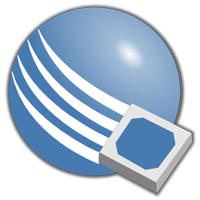
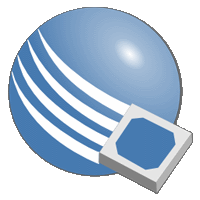
Added more in intro, contact, compressed images for faster load

diff --git a/index.html b/index.html
@@ -19,6 +19,7 @@
             <ul class="dropdown menu">
                 <li class="menu-text dark">Kaiwen Wang</li>
                 <li class="dark"><a href="#technologies">Familiar Technologies</a></li>
+                <li class="dark"><a href="#experience">Experience</a></li>
                 <li class="dark"><a href="#projects">Projects</a></li>
                 <li class="dark"><a href="#contact">Contact</a></li>
             </ul>
@@ -41,14 +42,10 @@
                         <p class="lead">Machine Learning</p>
                     </div>
                 </div>
-                <a href="#" class="button large">Resume</a>
-                <a href="#" class="button large">Linkedin</a>
-                <a href="#" class="button large">Github</a>
-                <p></p>
                 <h1>
-                <span class="icon"><a href="#"><i class="fas fa-file-alt fa-lg"></i></a></span>
-                <span class="icon"><a href="https://www.linkedin.com/in/kaiwen-wang-440187b0/"><i class="fab fa-linkedin fa-lg"></i></a></span>
-                <span class="icon"><a href="https://github.com/TheHappyDude"><i class="fab fa-github-square fa-lg"></i></a></span>
+                <span class="icon-span"><a class="icon" href="#"><i class="fas fa-file-alt fa-lg"></i></a></span>
+                <span class="icon-span"><a class="icon" href="https://www.linkedin.com/in/kaiwen-wang-440187b0/"><i class="fab fa-linkedin fa-lg"></i></a></span>
+                <span class="icon-span"><a class="icon" href="https://github.com/TheHappyDude"><i class="fab fa-github-square fa-lg"></i></a></span>
                 </h1>
             </div>
         </div>
@@ -58,7 +55,18 @@
             <div id="intro">
                 <div class="row column">
                     <h3>Hi my name is Kaiwen!</h3>
-                    <p>I'm a graduate student at Georgia Tech specializing in machine learning. </p>
+                    <p>
+                        I'm a graduate student at Georgia Tech specializing in machine learning. My undergraduate
+                        concentrations were in modeling and simulations, and systems and architecture. In addition,
+                        I was part of the Honors Program and International Plan, and received a Certificate in Finance
+                        and a language certification in Mandarin. I do a mix of full-stack web development along with
+                        high-performance data analysis and processing algorithms, with some Android development sprinkled in.
+                        My favorite challenges are taking dirty data from different sources, and cleaning and turning
+                        them into useful information. 
+                        Outside of computer science, I design parts in CAD and fabricate through machining or through
+                        3D printing. My hobbies include Nerf modding, painting, sim racing, and playing the piano and
+                        electric bass. 
+                    </p>
                 </div>
 
                 <div class="row column">
@@ -104,22 +112,45 @@
                             <li>Git</li>
                             <li>Linux</li>
                             <li>Anaconda</li>
+                            <li>Vi/Vim</li>
+                            <li>Android Studio</li>
+                            <li>Visual Studio</li>
                             <li>Autodesk Inventor</li>
                             <li>Adobe Photoshop</li>
                         </ul>
                     </div>
                     <div class="medium-4 cell">
-                        <h4>Frameworks</h4>
+                        <h4>Frameworks/Libraries</h4>
                         <ul class="bullet">
                             <li>Django</li>
                             <li>Pandas</li>
                             <li>Scikit-Learn</li>
-                            <li>NumPy</li>
+                            <li>NumPy/SciPy</li>
                             <li>Plot.ly</li>
                             <li>D3</li>
+                            <li>Bootstrap</li>
+                            <li>Zurb Foundation</li>
                             <li>MPI</li>
                             <li>Nginx</li>
                         </ul>
+                    </div>
+                </div>
+            </div>
+
+            <div id="experience">
+                <div class="spacer"></div>
+                <h3>Work Experience</h3>
+                <div class="grid-container">
+                    <div class="cell">
+                        <div class="card-info other">
+                            <div class="grid-x grid-margin-x card-info-content">
+                                <div class="medium-3 cell">
+                                    <img src="https://placehold.it/400x370&text=Pegasi B" />
+                                </div>
+                                <div class="medium-9 cell">
+                                </div>
+                            </div>
+                        </div>
                     </div>
                 </div>
             </div>
@@ -427,6 +458,7 @@
             <div id="contact">
                 <div class="spacer"></div>
                 <h3>Contact</h3>
+                <p>Email: <a href="mailto:kwang329@gatech.edu">kwang329@gatech.edu</a></p>
 
             </div>
 
